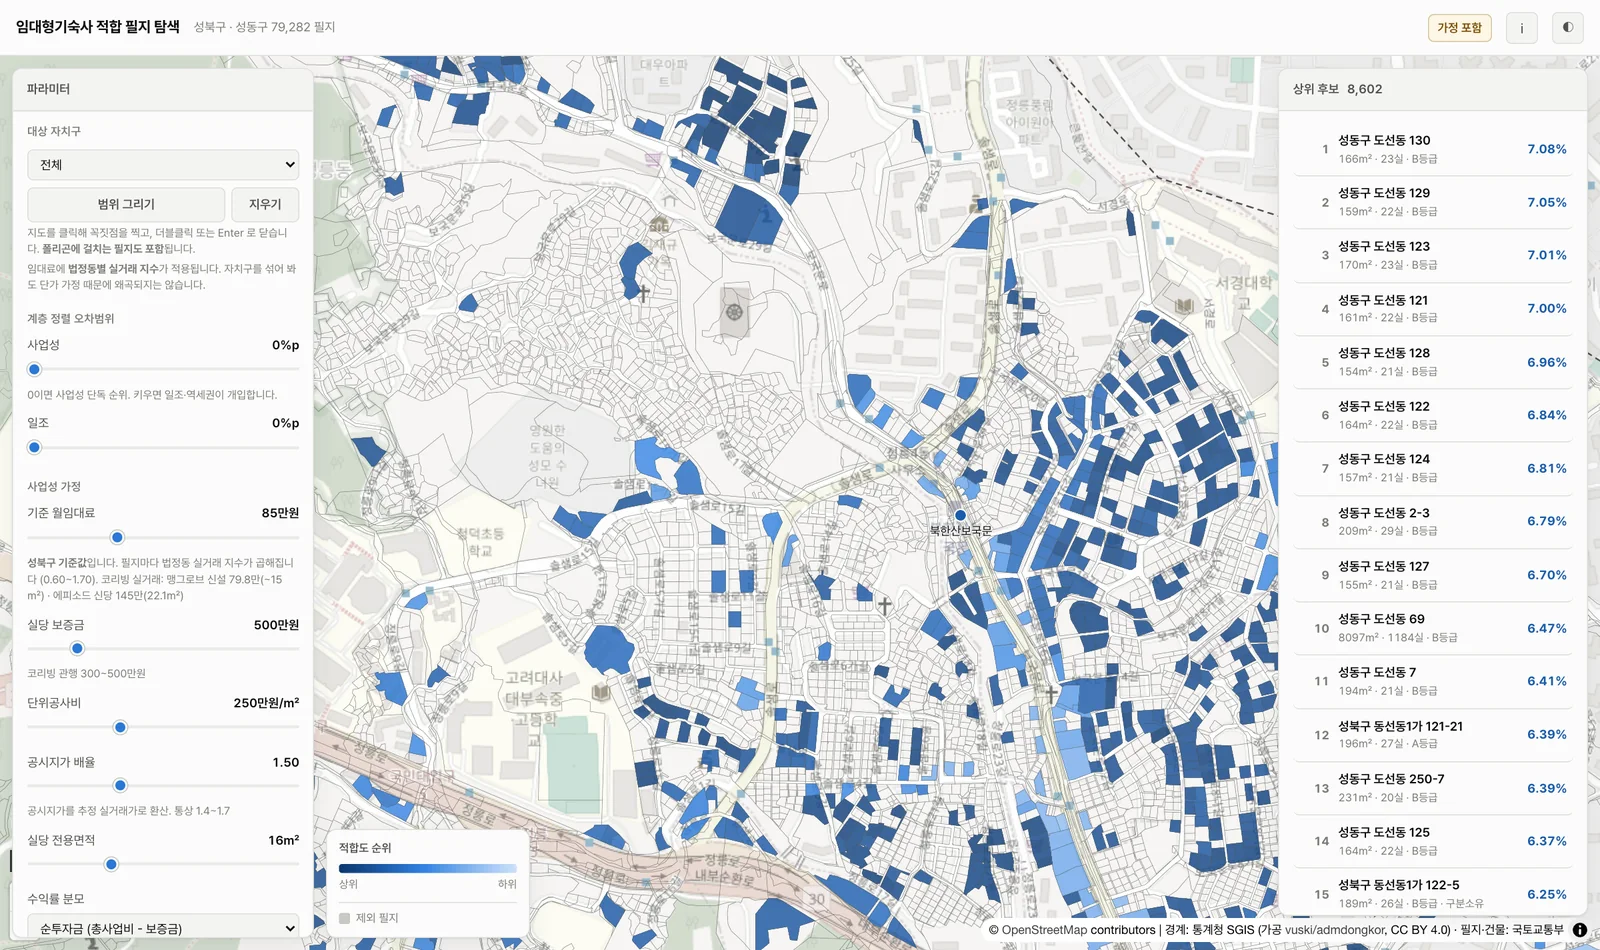
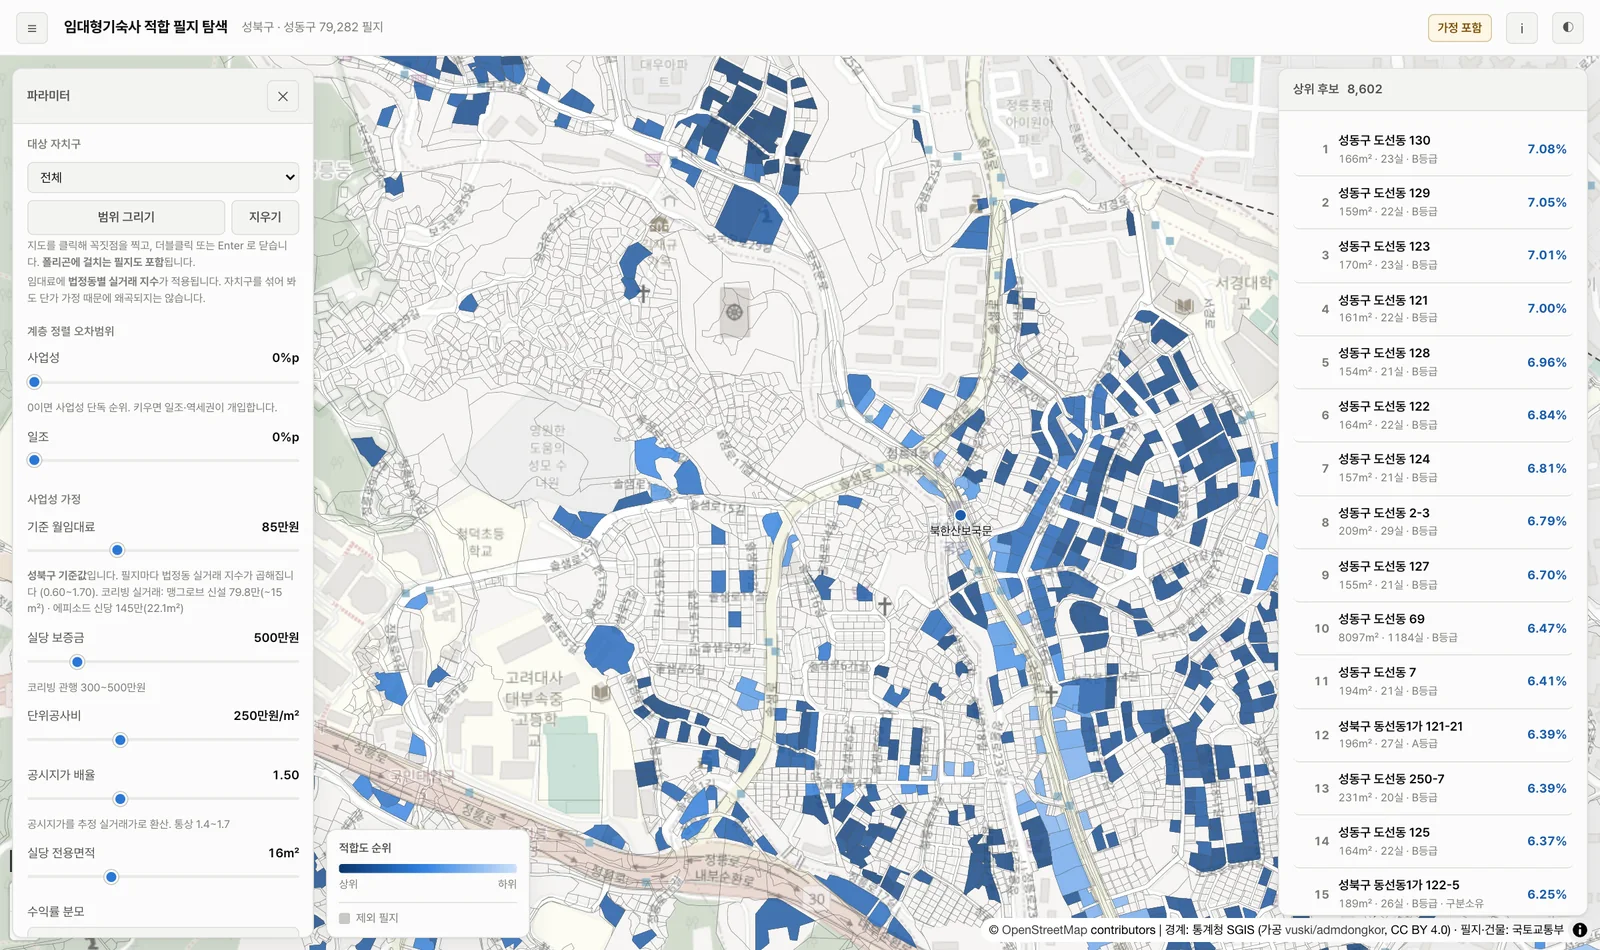
거점 UI 3건 수정 (D-032) — 거점 수 조절 버그 포함
1) 거점 수를 줄여도 줄지 않던 버그
   pickHubs 는 fixed 를 포함한 총합 n 을 목표로 하는데 hubAuto 가 기존
   거점 전부를 fixed 로 넘겨, 8곳 상태에서 3을 요청하면 첫 줄에서 종료했다.
   의도는 "손으로 담은 합필 거점을 지우지 않기" 였는데 자동분까지 보존한 게
   문제. 자동 선정은 다시 뽑기다. site.auto 로 구분해 자동분만 갈아끼운다.

2) 거점 클릭 시 이동
   목록 이름과 지도 번호 핀 어느 쪽을 눌러도 그 거점으로 이동한다.
   단일 필지는 줌 17.2, 합필은 묶음 범위. 보고 있는 거점은 목록에서 강조.
   이름은 div+핸들러가 아니라 button 이라 키보드·스크린리더에서 동작한다.

3) 파라미터 패널 햄버거
   헤더 ☰ 로 어느 화면에서나 여닫고 P 키도 같다. 접으면 패널을 아예 치운다
   (지도를 넓게 쓰자는 요구라 본문만 감추면 부족). localStorage 에 기억.

덤: 2번을 테스트하다 합필 패널이 파라미터 패널을 덮는 걸 발견했다.
레이아웃이 body.has-asm 에 달려 있는데 토글이 다섯 군데에 흩어져 있었고
renderAsm 의 한 경로가 빠져 있었다. syncPanelFlags() 로 한 곳에 모았다.

검증 13항목 추가, 전 항목 통과. 스크린샷 17장 갱신.

diff --git a/web/app.js b/web/app.js
@@ -193,11 +193,8 @@ function renderDetail(id) {
   const el = $("detailBody");
   $("detailName").textContent = state.nameOf(id) || id;
   $("detail").hidden = false;
-  document.body.classList.add("has-detail");
-  if (!$("asm").hidden && !$("asmMode").checked) {
-    $("asm").hidden = true;
-    document.body.classList.remove("has-asm");
-  }
+  if (!$("asm").hidden && !$("asmMode").checked) $("asm").hidden = true;
+  syncPanelFlags();
 
   if (i === undefined) {
     // scoring.json 에 없다 = 정적 필터에서 이미 걸린 필지
@@ -334,6 +331,14 @@ function asmToggle(id) {
   return true;
 }
 
+/* 패널 열림 상태를 body 클래스에 반영. 레이아웃(높이 제한)이 여기에 달려
+   있는데 토글이 코드 다섯 군데에 흩어져 있어 한 경로가 빠지면 패널이 겹쳤다. */
+function syncPanelFlags() {
+  document.body.classList.toggle("has-asm", !$("asm").hidden);
+  document.body.classList.toggle("has-detail", !$("detail").hidden);
+  document.body.classList.toggle("has-hub", !$("hub").hidden);
+}
+
 function paintAsm() {
   const ids = state.asm.map((i) => state.D.ids[i]);
   state.map.setFilter("parcel-asm", ["in", ["get", "id"], ["literal", ids]]);
@@ -347,12 +352,13 @@ function renderAsm() {
   $("asmCount").textContent = state.asm.length ? String(state.asm.length) : "";
   if (!state.asm.length) {
     $("asm").hidden = !$("asmMode").checked;
-    document.body.classList.toggle("has-asm", !$("asm").hidden);
+    syncPanelFlags();
     el.innerHTML = `<div class="empty">지도에서 필지를 눌러 담으세요.<br>
       규모 미달 필지도 담을 수 있습니다.</div>`;
     return;
   }
   $("asm").hidden = false;
+  syncPanelFlags();
 
   const D = state.D;
   const items = state.asm.map((i) => ({
@@ -481,10 +487,12 @@ function gradeFromDist(d, g) {
   return d <= g.A ? 0 : d <= g.B ? 1 : d <= g.C ? 2 : d <= g.D ? 3 : 4;
 }
 
-function addSite(indices, hull) {
+function addSite(indices, hull, auto = false) {
   const key = indices.slice().sort((a, b) => a - b).join(",");
   if (state.sites.some((s) => s.key === key)) return false;
-  state.sites.push({ id: ++siteSeq, key, indices: indices.slice(), hull: hull || null });
+  // 자동 선정분과 손으로 담은 것을 구분한다. 다시 자동 선정할 때
+  // 손으로 담은 거점(합필 포함)은 남기고 자동분만 갈아끼운다.
+  state.sites.push({ id: ++siteSeq, key, auto, indices: indices.slice(), hull: hull || null });
   renderHub();
   paintHubs();
   return true;
@@ -521,6 +529,26 @@ function placeStnLabels() {
   }
 }
 
+/* 거점으로 지도를 옮긴다. 목록의 이름과 지도 위 번호 어느 쪽을 눌러도 같다.
+   합필은 여러 필지라 범위로, 단일 필지는 지점으로 맞춘다. */
+function flyToSite(site) {
+  const D = state.D;
+  const pts = site.indices.map((i) => [D.lon[i], D.lat[i]]);
+  if (!pts.length) return;
+  if (pts.length === 1) {
+    state.map.flyTo({ center: pts[0], zoom: 17.2, duration: 700 });
+  } else {
+    const b = pts.reduce((acc, p) => acc.extend(p),
+      new maplibregl.LngLatBounds(pts[0], pts[0]));
+    state.map.fitBounds(b, { padding: 140, maxZoom: 17.6, duration: 700 });
+  }
+  // 어느 거점을 보고 있는지 목록에서도 보이게 한다
+  document.querySelectorAll("#hubBody .site").forEach((r) =>
+    r.classList.toggle("on", r.id === `site-${site.id}`));
+  document.getElementById(`site-${site.id}`)
+    ?.scrollIntoView({ block: "nearest", behavior: "smooth" });
+}
+
 function paintHubs() {
   const ids = state.sites.flatMap((s) => s.indices.map((i) => state.D.ids[i]));
   for (const l of ["parcel-hub", "parcel-hub-line"]) {
@@ -541,7 +569,7 @@ function paintHubs() {
     el.title = s._nm || "";
     el.addEventListener("click", (e) => {
       e.stopPropagation();
-      document.getElementById(`site-${s.id}`)?.scrollIntoView({ block: "nearest" });
+      flyToSite(s);
     });
     return new maplibregl.Marker({ element: el })
       .setLngLat([x / a, y / a]).addTo(state.map);
@@ -549,18 +577,21 @@ function paintHubs() {
 }
 
 function hubAuto() {
-  const P = state.P, D = state.D;
+  const D = state.D;
   const n = +$("hubN").value;
   const minD = +$("hubD").value;
-  // 이미 담은 거점(합필 포함)은 유지하고 나머지를 채운다
+  // 자동 선정은 **다시 뽑기**다. 이전 자동분을 남겨 두면 거점 수를 줄여도
+  // 줄지 않는다 (pickHubs 는 fixed 를 포함한 총합 n 을 목표로 하므로
+  // 8곳이 남아 있는 채로 3을 요청하면 즉시 종료한다).
+  state.sites = state.sites.filter((s) => !s.auto);
   const fixed = state.sites.map((s) => siteCenter(s.indices, D));
   const used = new Set(state.sites.flatMap((s) => s.indices));
   const order = state.result.order.filter((i) => !used.has(i));
   const picked = pickHubs(order, D, { n, minDist: minD, fixed });
-  for (const i of picked) addSite([i]);
+  for (const i of picked) addSite([i], null, true);
   state.hubTried = true;
-  if (!state.sites.length) return;
   renderHub();
+  paintHubs();
 }
 
 function renderHub() {
@@ -568,9 +599,11 @@ function renderHub() {
   $("hubCount").textContent = state.sites.length ? String(state.sites.length) : "";
   if (!state.sites.length) {
     $("hub").hidden = true;
+    syncPanelFlags();
     return;
   }
   $("hub").hidden = false;
+  syncPanelFlags();
   const D = state.D;
 
   const rows = state.sites.map((s, k) => {
@@ -585,7 +618,7 @@ function renderHub() {
       : "순위 밖";
     return `<div class="site" id="site-${s.id}">
       <span class="no">${k + 1}</span>
-      <div><div class="nm"></div><div class="meta num">${Math.round(m.area).toLocaleString()}㎡ ·
+      <div><button class="nm" data-go="${s.id}" title="이 거점으로 이동"></button><div class="meta num">${Math.round(m.area).toLocaleString()}㎡ ·
         ${m.rooms}실 · ${GRADE_LABELS[m.grade]}등급 ${Math.round(m.dist).toLocaleString()}m · ${rk}</div></div>
       <span class="y">${(m.s1 * 100).toFixed(2)}%</span>
       <button data-site="${s.id}" aria-label="빼기">✕</button>
@@ -635,7 +668,12 @@ function renderHub() {
     s._nm = row.querySelector(".nm").textContent;   // 지도 핀 툴팁이 같은 이름을 쓴다
   });
   el.querySelectorAll("[data-site]").forEach((b) =>
-    b.addEventListener("click", () => removeSite(+b.dataset.site)));
+    b.addEventListener("click", (e) => { e.stopPropagation(); removeSite(+b.dataset.site); }));
+  el.querySelectorAll("[data-go]").forEach((b) =>
+    b.addEventListener("click", () => {
+      const site = state.sites.find((s) => s.id === +b.dataset.go);
+      if (site) flyToSite(site);
+    }));
 }
 
 /* ── 범위 그리기 ─────────────────────────────────────────
@@ -1139,7 +1177,7 @@ function wireUI() {
       state.asm = [];
       paintAsm();
       $("asm").hidden = true;
-      document.body.classList.remove("has-asm");
+      syncPanelFlags();
     } else {
       // 합필 모드에서는 상세 패널을 닫는다 (같은 자리)
       if (!$("detail").hidden) $("detailClose").click();
@@ -1156,12 +1194,12 @@ function wireUI() {
     state.asm = [];
     paintAsm();
     $("asm").hidden = true;
-    document.body.classList.remove("has-asm");
+    syncPanelFlags();
   });
 
   $("detailClose").addEventListener("click", () => {
     $("detail").hidden = true;
-    document.body.classList.remove("has-detail");
+    syncPanelFlags();
     state.selected = null;
     for (const l of ["parcel-selected", "parcel-selected-casing"]) {
       state.map.setFilter(l, ["==", ["get", "id"], ""]);
@@ -1189,6 +1227,23 @@ function wireUI() {
     }
   });
 
+  // 파라미터 패널 접기/펼치기. 지도를 넓게 보고 싶다는 요구가 잦아
+  // 헤더의 햄버거로 어느 화면에서나 여닫는다. 선택은 기억한다.
+  const setParams = (open) => {
+    document.body.classList.toggle("params-off", !open);
+    $("paramsBtn").setAttribute("aria-expanded", String(open));
+    try { localStorage.setItem("dss-params", open ? "1" : "0"); } catch {}
+  };
+  const toggleParams = () => setParams(document.body.classList.contains("params-off"));
+  $("paramsBtn").addEventListener("click", toggleParams);
+  $("paramsClose").addEventListener("click", () => setParams(false));
+  let savedParams = null;
+  try { savedParams = localStorage.getItem("dss-params"); } catch {}
+  // 기본값은 열림. 좁은 화면은 지도가 먼저라 닫아 둔다.
+  setParams(savedParams !== null
+    ? savedParams === "1"
+    : !matchMedia("(max-width: 900px)").matches);
+
   // 모바일은 지도가 먼저 보여야 한다. 파라미터는 접은 채로 시작.
   if (matchMedia("(max-width: 900px)").matches) {
     $("params").dataset.collapsed = "true";
@@ -1209,6 +1264,8 @@ function wireUI() {
   });
 
   addEventListener("keydown", (e) => {
+    const typing = /^(INPUT|SELECT|TEXTAREA)$/.test(e.target.tagName);
+    if (!typing && (e.key === "p" || e.key === "P")) { toggleParams(); return; }
     if (e.key === "Enter" && state.draw.on) { drawFinish(); return; }
     if (e.key !== "Escape") return;
     if (state.draw.on) { drawCancel(); return; }

diff --git a/web/style.css b/web/style.css
@@ -130,6 +130,13 @@ header .spacer { flex: 1; }
 }
 #params { top: calc(var(--header-h) + 12px); left: 12px; width: 302px;
           max-height: calc(100vh - var(--header-h) - 24px); }
+/* 햄버거로 접으면 패널을 아예 치운다 — 지도를 넓게 쓰라는 요청이므로
+   본문만 감추는 것으로는 부족하다. */
+body.params-off #params { display: none; }
+#paramsBtn { margin-right: 2px; }
+body.params-off #paramsBtn { background: var(--surface-3); }
+.desktop-only { display: inline-grid; }
+@media (max-width: 900px) { .desktop-only { display: none; } }
 /* 상세 패널도 좌측 하단이라, 열리면 파라미터 높이를 줄여 겹치지 않게 한다. */
 body.has-detail #params { max-height: calc(100vh - var(--header-h) - 46vh - 36px); }
 /* 합필 패널도 좌측 하단이므로 파라미터 높이를 줄인다 */
@@ -160,12 +167,21 @@ body.has-asm #params { max-height: calc(100vh - var(--header-h) - 62vh - 36px); 
   color: var(--accent-ink); display: grid; place-items: center;
   font-size: 11px; font-weight: 700;
 }
-#hub .site .nm { font-weight: 550; }
+/* 이름은 버튼이다 — 누르면 그 거점으로 지도가 이동한다 */
+#hub .site .nm {
+  font: inherit; font-weight: 550; color: var(--ink);
+  border: 0; background: transparent; padding: 0; text-align: left;
+  cursor: pointer; display: block; width: 100%;
+}
+#hub .site .nm:hover { color: var(--accent-text); text-decoration: underline; }
+#hub .site .nm:focus-visible { outline: 2px solid var(--accent-text); outline-offset: 2px; }
+/* 지금 보고 있는 거점 */
+#hub .site.on { background: var(--surface-2); border-radius: 6px; }
 #hub .site .meta { font-size: 11px; color: var(--ink-3); margin-top: 1px; }
 #hub .site .y { color: var(--accent-text); font-weight: 650; font-variant-numeric: tabular-nums; }
-#hub .site button { border: 0; background: transparent; color: var(--ink-3);
+#hub .site button[data-site] { border: 0; background: transparent; color: var(--ink-3);
   cursor: pointer; font-size: 13px; padding: 0 2px; }
-#hub .site button:hover { color: var(--ink); }
+#hub .site button[data-site]:hover { color: var(--ink); }
 #hub .tot {
   margin-top: 10px; padding-top: 10px; border-top: 1px solid var(--border);
 }
@@ -399,12 +415,21 @@ select:focus-visible { outline: 2px solid var(--accent); outline-offset: 1px; }
   color: var(--accent-ink); display: grid; place-items: center;
   font-size: 11px; font-weight: 700;
 }
-#hub .site .nm { font-weight: 550; }
+/* 이름은 버튼이다 — 누르면 그 거점으로 지도가 이동한다 */
+#hub .site .nm {
+  font: inherit; font-weight: 550; color: var(--ink);
+  border: 0; background: transparent; padding: 0; text-align: left;
+  cursor: pointer; display: block; width: 100%;
+}
+#hub .site .nm:hover { color: var(--accent-text); text-decoration: underline; }
+#hub .site .nm:focus-visible { outline: 2px solid var(--accent-text); outline-offset: 2px; }
+/* 지금 보고 있는 거점 */
+#hub .site.on { background: var(--surface-2); border-radius: 6px; }
 #hub .site .meta { font-size: 11px; color: var(--ink-3); margin-top: 1px; }
 #hub .site .y { color: var(--accent-text); font-weight: 650; font-variant-numeric: tabular-nums; }
-#hub .site button { border: 0; background: transparent; color: var(--ink-3);
+#hub .site button[data-site] { border: 0; background: transparent; color: var(--ink-3);
   cursor: pointer; font-size: 13px; padding: 0 2px; }
-#hub .site button:hover { color: var(--ink); }
+#hub .site button[data-site]:hover { color: var(--ink); }
 #hub .tot {
   margin-top: 10px; padding-top: 10px; border-top: 1px solid var(--border);
 }

diff --git a/web/index.html b/web/index.html
@@ -22,6 +22,8 @@
 <body>
 
 <header>
+  <button class="iconbtn" id="paramsBtn" aria-label="파라미터 패널 접기/펼치기"
+    aria-expanded="true" aria-controls="params" title="파라미터 (P)">☰</button>
   <h1>임대형기숙사 적합 필지 탐색</h1>
   <span class="sub" id="hdrSub"></span>
   <span class="spacer"></span>
@@ -39,6 +41,7 @@
     파라미터
     <span class="spacer"></span>
     <button class="iconbtn mobile-only" data-collapse="params" aria-label="접기">▾</button>
+    <button class="iconbtn desktop-only" id="paramsClose" aria-label="파라미터 닫기" title="닫기">✕</button>
   </h2>
   <div class="body">
 

diff --git a/README.md b/README.md
@@ -414,6 +414,9 @@ node tools/verify_ui.mjs
   **거점 구간 콘솔 오류 0건**
 - **역 라벨**: 심볼 레이어 0개 / 글리프 URL 없음(외부 폰트 의존 차단),
   확대 시 표시·축소 시 숨김·겹침 0쌍
+- **거점 조작**: 거점 수 8→3→6 반영, 자동 선정이 수동 거점을 지우지 않음,
+  이름·핀 클릭 시 해당 거점으로 이동
+- **파라미터 접기**: 햄버거 여닫기·상태 기억·`P` 단축키
 - **개별공시지가**: 단가·공시총액·공시일자가 Python 과 일치, 공시일자가
   필지별로 다른지, 출처 표기가 실제 데이터를 담는지
 - **부팅 예산**: 우리 몫 600ms 이내, 타일 대기 0ms
